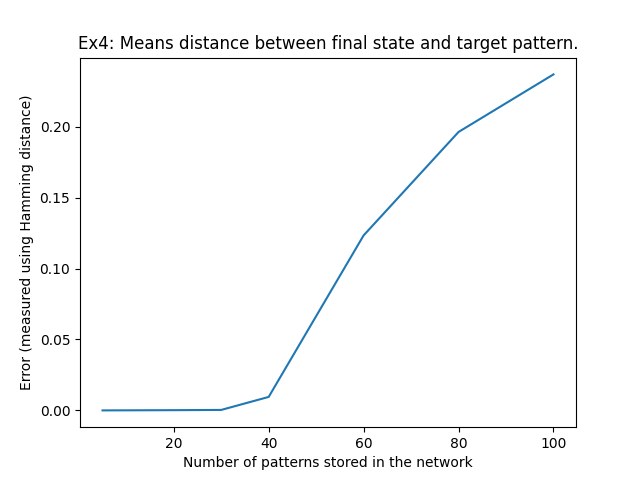
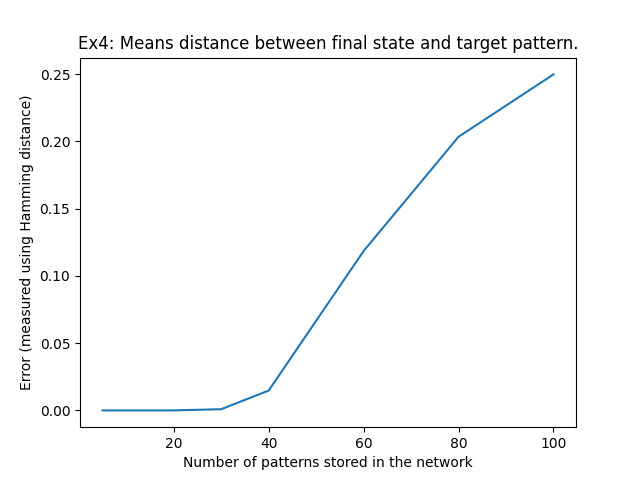
Part 1 done

diff --git a/Part1/run.py b/Part1/run.py
@@ -35,7 +35,7 @@ def compute_distances(net, n_patterns, n_runs, distance_function, percentage=0.1
 
     network, random_patterns = generate_and_store_random_patterns(net, n_patterns)
     distances = np.zeros(n_patterns)
-    n_flips = int(300*percentage)
+    n_flips = int(network.nrOfNeurons*percentage)
     for i, pattern in enumerate(random_patterns):
         initial_state = pattern_tools.flip_n(pattern, n_flips)
         network.set_state_from_pattern(initial_state)
@@ -59,7 +59,7 @@ def compute_m_max(m_vals, distances, tol_distance=0.05, tol_error_percentage=0.0
     correctly_retrieved_percentage = np.array([np.count_nonzero(item) / len(item) for item in correctly_retrieved])
     m_max = np.array(m_vals)[correctly_retrieved_percentage > (1 - tol_error_percentage)][-1]
 
-    return m_max, correctly_retrieved_percentage
+    return m_max, correctly_retrieved_percentage*100
 
 
 # ----- Exercises code ----- #
@@ -175,7 +175,7 @@ def ex4(net, distance_function, m_vals=(5, 20, 30, 40, 60, 80, 100), n_runs=6, t
     plt.savefig("plots/ex4_percentage.png")
     plt.show()
 
-    return means, m_max
+    return means, m_max, m_vals
 
 
 def ex5(net, distance_function, n_trials=8, m_vals=(5, 20, 30, 40, 60, 80, 100), n_runs=6):
@@ -209,30 +209,56 @@ def ex5(net, distance_function, n_trials=8, m_vals=(5, 20, 30, 40, 60, 80, 100),
     return mean_of_means, std_of_means
 
 
-def ex7(net_sizes=(50, 250, 500, 750, 1000), n_patterns_list=()):
+def ex7(distance_function, net_sizes=(50, 250, 500, 750, 1000), n_runs=6, tol_distance=0.05, tol_error=0.05):
     """"""
 
-    for size in net_sizes:
-        net = network.HopfieldNetwork(size)
+    capacity = np.zeros(len(net_sizes))
 
-        #net, random_patterns = generate_and_store_random_patterns(net, n_patterns)
+    for i, net_size in enumerate(net_sizes):
+        net = network.HopfieldNetwork(net_size)
+        m_vals = (int(net_size*0.05), int(net_size*0.1), int(net_size*0.2), int(net_size*0.3))  # We take 5, 10, 20 and 30% of the network size
 
-    # For each network size between 50 and 1000:
-    #   - create a network of this size
-    #   - Use 4 different dictionary sizes
-    #   - Compute m_max and the capacity of the network using this information
-    #   - see instructions for second half
+        distances = [compute_distances(net, m, n_runs, distance_function, percentage=0) for m in m_vals]  # We take the target pattern as original pattern
+        m_max, percentage_correctly_retrieved = compute_m_max(m_vals, distances, tol_distance=tol_distance, tol_error_percentage=tol_error)
+        capacity[i] = m_max / net_size
 
-    # Note from TA: function of network size
+        plt.plot(m_vals, percentage_correctly_retrieved)
+        plt.title("Ex7: % of retrieved patterns for net size {} starting from pattern".format(net_size))
+        plt.xlabel("Number of patterns stored")
+        plt.ylabel("Percentage of correctly retrieved patterns")
+        plt.savefig("plots/ex7_percentage_net_size_{}.png".format(net_size))
+        plt.show()
 
-    raise NotImplementedError
+    plt.plot(net_sizes, capacity)
+    plt.title("Ex7: Capacity of the network by network size")
+    plt.xlabel("Size of the network")
+    plt.ylabel("Capacity")
+    plt.savefig("plots/ex7.png")
+    plt.show()
+
+    return capacity
 
 
 if __name__ == "__main__":
+    # TODO: Format and print results nicely for when they run the code
+    # Exercise 1
     net, stored_patterns = ex1()
-    compute_hamming_distance = ex2()  # TODO: answer theory question of ex2
+    # Exercise 2
+    compute_hamming_distance = ex2()
+    # Exercise 3
     distances, correctly_retrieved, selected_pattern_id = ex3(net, stored_patterns, compute_hamming_distance)
-    means, m_max = ex4(net, compute_hamming_distance)  # TODO: answer theory question of ex4
-    print(means, m_max)
-    mean_of_means, std_of_means = ex5(net, compute_hamming_distance)
-    print(mean_of_means, std_of_means)
+    print("Exercise 3 results:")
+    print(f"We selected pattern number {selected_pattern_id} for our experiments")
+    print(f"Distances between final state of the network and each pattern: {distances}")
+    print(f"The network retrieved the selected pattern correctly: {correctly_retrieved}")
+    # Exercise 4
+    means, m_max, m_vals = ex4(net, compute_hamming_distance)
+    print("Exercise 4 results:")
+    print(f"Dictionary sizes: {m_vals}")
+    print(f"Mean error of pattern retrieval: {means}")
+    print(f"Maximum number of patterns that can be retrieved: {m_max}")
+    # Exercise 5
+    mean_of_means, std_of_means = ex5(net, compute_hamming_distance)  # This takes a while to run
+    # Exercise 6 - all in the report
+    # Exercise 7
+    capacity = ex7(compute_hamming_distance)  # This takes an even longer while to run
